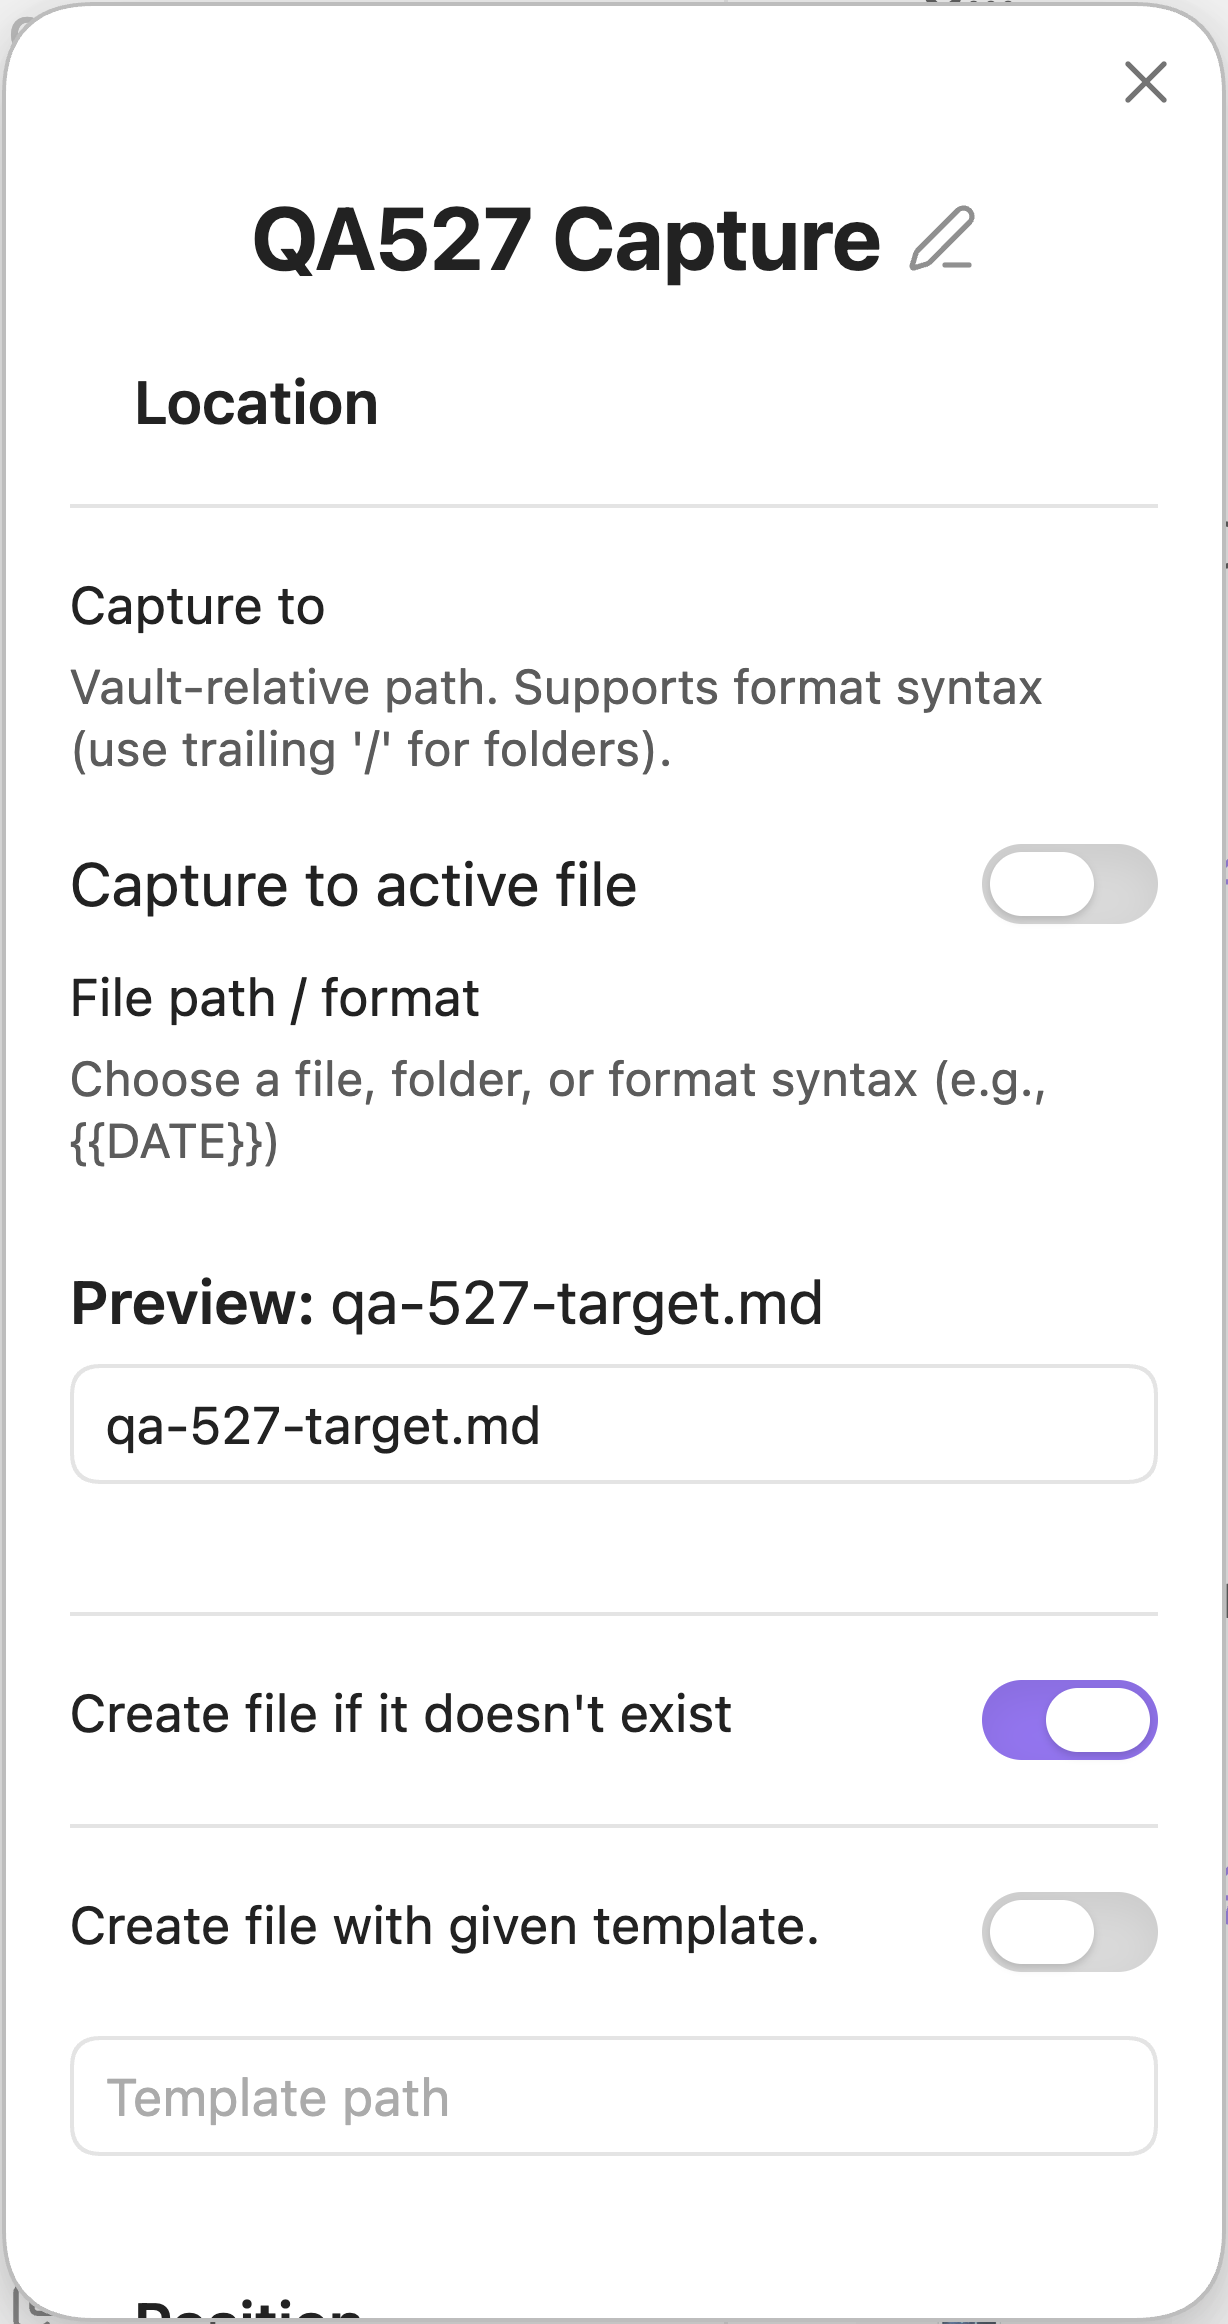
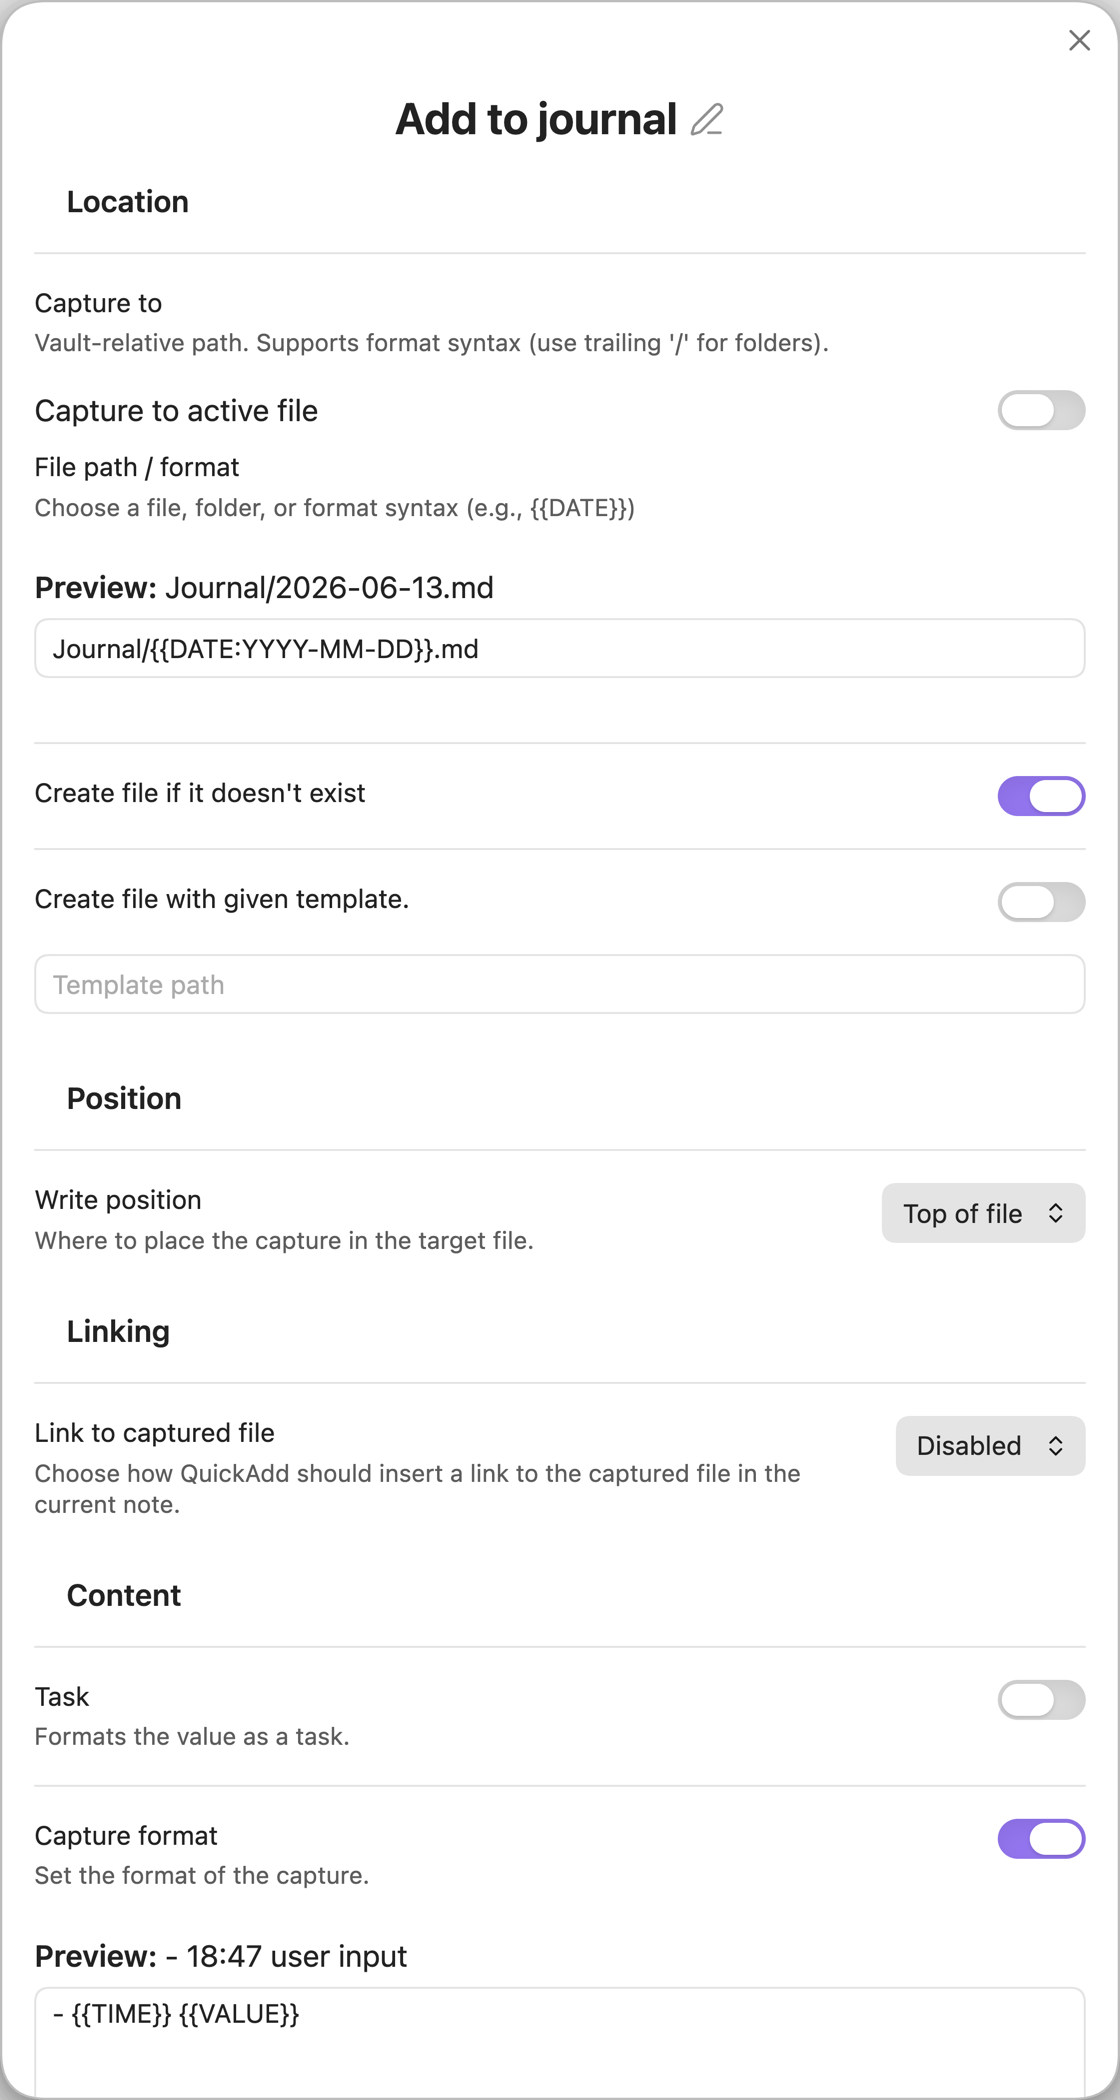
docs: refresh screenshots to current UI and host them locally (#1013)
Replace the 2021 user-images.githubusercontent.com screenshots with fresh
captures of the current sectioned builders, taken from the live dev vault:

- Capture builder (Location/Position/Linking/Content)
- Template builder (Template/Location/Linking/Behavior) — also added to
  TemplateChoice, which previously had no screenshot
- Macro builder (command palette + Run on startup)
- Multi choice settings modal
- Example shots for Add task to board / Add journal entry / Add an inbox
  item / Log book to daily journal

Images live under docs/static/img/ and are shared by the current docs and
the version-2.13.1 snapshot. The remaining .gif/.mp4 demos are kept as-is
(not reproducible as static screenshots).

Refs #1013

diff --git a/docs/docs/Choices/MacroChoice.md b/docs/docs/Choices/MacroChoice.md
@@ -30,7 +30,7 @@ A **macro** is a collection of commands that execute sequentially. Each macro is
 3. Give your macro choice a descriptive name
 4. Click the configure button (⚙️) to open the macro builder
 
-![Macro Choice Settings](https://user-images.githubusercontent.com/29108628/121774145-22ccd100-cb81-11eb-8873-7533755bdf32.png)
+![The Macro builder](/img/choices/macro-builder.png)
 
 ### Step 2: Build Your Macro
 
@@ -432,7 +432,7 @@ selector form.
 
 ## Macro Settings
 
-![Macro Builder](https://user-images.githubusercontent.com/29108628/121774198-81924a80-cb81-11eb-9f80-9816263e4b6f.png)
+![The Macro builder, including the Run on startup toggle](/img/choices/macro-builder.png)
 
 ### Run on startup
 Enable this to automatically run a macro when Obsidian starts. Useful for:

diff --git a/docs/versioned_docs/version-2.13.1/Choices/MacroChoice.md b/docs/versioned_docs/version-2.13.1/Choices/MacroChoice.md
@@ -30,7 +30,7 @@ A **macro** is a collection of commands that execute sequentially. Each macro is
 3. Give your macro choice a descriptive name
 4. Click the configure button (⚙️) to open the macro builder
 
-![Macro Choice Settings](https://user-images.githubusercontent.com/29108628/121774145-22ccd100-cb81-11eb-8873-7533755bdf32.png)
+![The Macro builder](/img/choices/macro-builder.png)
 
 ### Step 2: Build Your Macro
 
@@ -432,7 +432,7 @@ selector form.
 
 ## Macro Settings
 
-![Macro Builder](https://user-images.githubusercontent.com/29108628/121774198-81924a80-cb81-11eb-9f80-9816263e4b6f.png)
+![The Macro builder, including the Run on startup toggle](/img/choices/macro-builder.png)
 
 ### Run on startup
 Enable this to automatically run a macro when Obsidian starts. Useful for:

diff --git a/docs/docs/Examples/Macro_LogBookToDailyJournal.md b/docs/docs/Examples/Macro_LogBookToDailyJournal.md
@@ -2,8 +2,7 @@
 title: "Macro: Log book to daily journal"
 ---
 
-![image](https://user-images.githubusercontent.com/29108628/121774885-d1bedc00-cb84-11eb-9776-d1cdd353e99e.png)
-![image](https://user-images.githubusercontent.com/29108628/121774905-ef8c4100-cb84-11eb-9657-b24759096886.png)
+![The Macro builder for the log-book macro](/img/choices/macro-builder.png)
 
 ```js
 // You have to export the function you wish to run.

diff --git a/docs/versioned_docs/version-2.13.1/Examples/Macro_LogBookToDailyJournal.md b/docs/versioned_docs/version-2.13.1/Examples/Macro_LogBookToDailyJournal.md
@@ -2,8 +2,7 @@
 title: "Macro: Log book to daily journal"
 ---
 
-![image](https://user-images.githubusercontent.com/29108628/121774885-d1bedc00-cb84-11eb-9776-d1cdd353e99e.png)
-![image](https://user-images.githubusercontent.com/29108628/121774905-ef8c4100-cb84-11eb-9657-b24759096886.png)
+![The Macro builder for the log-book macro](/img/choices/macro-builder.png)
 
 ```js
 // You have to export the function you wish to run.

diff --git a/docs/docs/Choices/MultiChoice.md b/docs/docs/Choices/MultiChoice.md
@@ -4,7 +4,7 @@ title: Multis
 
 Multi-choices are pretty simple. They're like folders for other choices. Here are mine. They're the ones which you can 'open' and 'close'.
 
-![image](https://user-images.githubusercontent.com/29108628/121774481-e39f7f80-cb82-11eb-92bf-6d265529ba06.png)
+![The Multi choice settings modal](/img/choices/multi-choice.png)
 
 To actually add something in this "folder", you need to drag it in! This is not easy to do when it is the first item in the multi-folder.
 

diff --git a/docs/docs/Choices/TemplateChoice.md b/docs/docs/Choices/TemplateChoice.md
@@ -6,6 +6,8 @@ The template choice type is not meant to be a replacement for [Templater](https:
 
 The Template choice builder groups its settings into four sections: **Template** (template path and file name format), **Location** (where the file is created), **Linking** (whether and how to link to the created file), and **Behavior** (what happens when the file already exists, and how the file is opened).
 
+![The QuickAdd Template builder, showing the Template, Location, Linking, and Behavior sections](/img/choices/template-builder.png)
+
 ## Mandatory
 **Template Path**. This is a path to the template you wish to insert. Paths are vault-relative; a leading `/` is ignored.
 

diff --git a/docs/docs/Examples/Capture_AddJournalEntry.md b/docs/docs/Examples/Capture_AddJournalEntry.md
@@ -14,4 +14,4 @@ Capture format:
 - {{DATE:HH:mm}} {{VALUE}}\n
 ```
 
-![image](https://user-images.githubusercontent.com/29108628/121774877-c2d82980-cb84-11eb-99c4-a20a14e41856.png)
+![A Capture choice configured to add a timestamped journal entry](/img/choices/capture-builder.png)

diff --git a/docs/docs/Examples/Capture_AddTaskToKanbanBoard.md b/docs/docs/Examples/Capture_AddTaskToKanbanBoard.md
@@ -20,4 +20,4 @@ You could also use `{{VALUE}} @{{{VDATE:DATE,gggg-MM-DD}}}` to get asked which d
 
 Read more about [format syntax here](../FormatSyntax.md).
 
-![image](https://user-images.githubusercontent.com/29108628/123068109-e23b4600-d411-11eb-8886-8362ad09ec11.png)
+![A Capture choice that adds a task to a board](/img/examples/capture-add-task.png)

diff --git a/docs/docs/Examples/Template_AddAnInboxItem.md b/docs/docs/Examples/Template_AddAnInboxItem.md
@@ -6,4 +6,4 @@ Template Path: `bins/templates/Inbox Template.md`
 
 File name format: `{{DATE:YYYY-MM-DD-HH-mm-ss}} {{NAME}}`
 
-![image](https://user-images.githubusercontent.com/29108628/121774925-fe72f380-cb84-11eb-8a4f-fd654d2d8c25.png)
+![A Template choice for adding an inbox item](/img/choices/template-builder.png)

diff --git a/docs/versioned_docs/version-2.13.1/Choices/MultiChoice.md b/docs/versioned_docs/version-2.13.1/Choices/MultiChoice.md
@@ -4,7 +4,7 @@ title: Multis
 
 Multi-choices are pretty simple. They're like folders for other choices. Here are mine. They're the ones which you can 'open' and 'close'.
 
-![image](https://user-images.githubusercontent.com/29108628/121774481-e39f7f80-cb82-11eb-92bf-6d265529ba06.png)
+![The Multi choice settings modal](/img/choices/multi-choice.png)
 
 To actually add something in this "folder", you need to drag it in! This is not easy to do when it is the first item in the multi-folder.
 

diff --git a/docs/versioned_docs/version-2.13.1/Choices/TemplateChoice.md b/docs/versioned_docs/version-2.13.1/Choices/TemplateChoice.md
@@ -6,6 +6,8 @@ The template choice type is not meant to be a replacement for [Templater](https:
 
 The Template choice builder groups its settings into four sections: **Template** (template path and file name format), **Location** (where the file is created), **Linking** (whether and how to link to the created file), and **Behavior** (what happens when the file already exists, and how the file is opened).
 
+![The QuickAdd Template builder, showing the Template, Location, Linking, and Behavior sections](/img/choices/template-builder.png)
+
 ## Mandatory
 **Template Path**. This is a path to the template you wish to insert. Paths are vault-relative; a leading `/` is ignored.
 

diff --git a/docs/versioned_docs/version-2.13.1/Examples/Capture_AddJournalEntry.md b/docs/versioned_docs/version-2.13.1/Examples/Capture_AddJournalEntry.md
@@ -14,4 +14,4 @@ Capture format:
 - {{DATE:HH:mm}} {{VALUE}}\n
 ```
 
-![image](https://user-images.githubusercontent.com/29108628/121774877-c2d82980-cb84-11eb-99c4-a20a14e41856.png)
+![A Capture choice configured to add a timestamped journal entry](/img/choices/capture-builder.png)